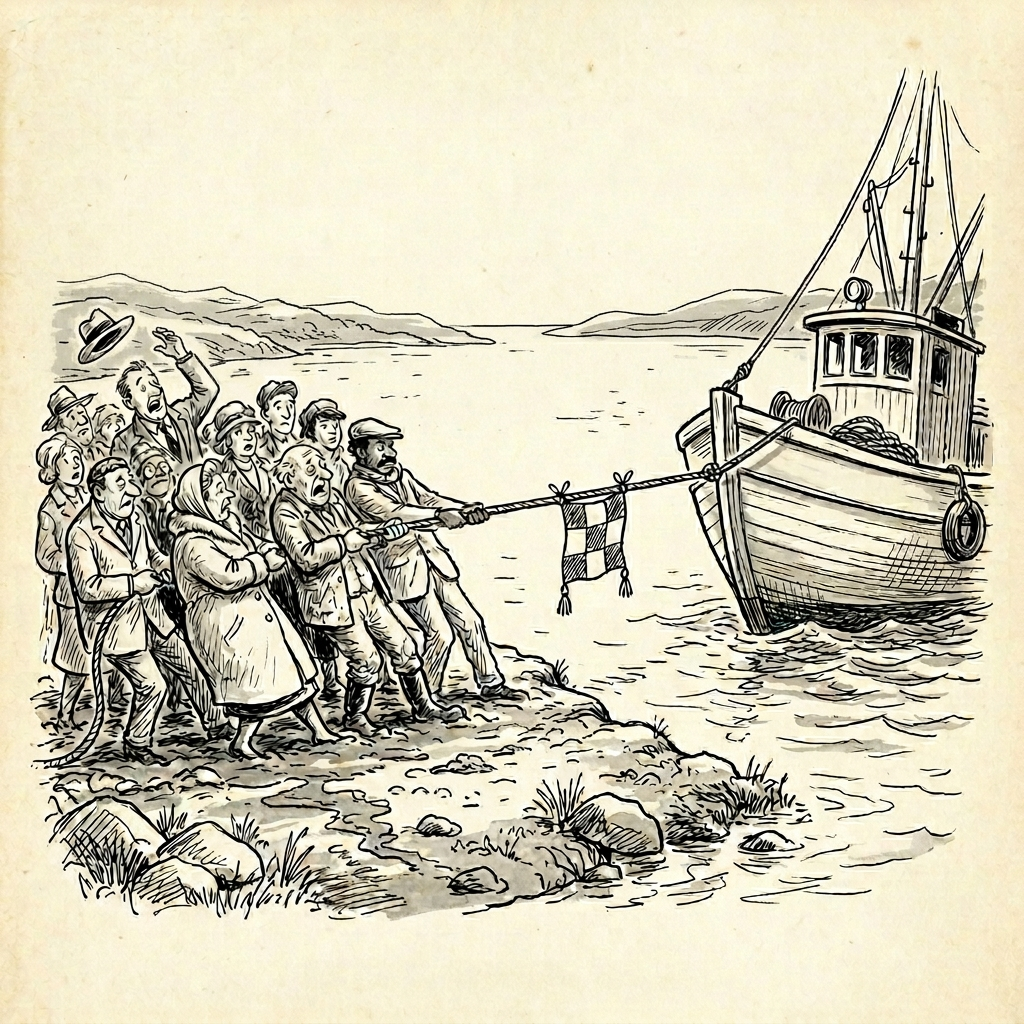
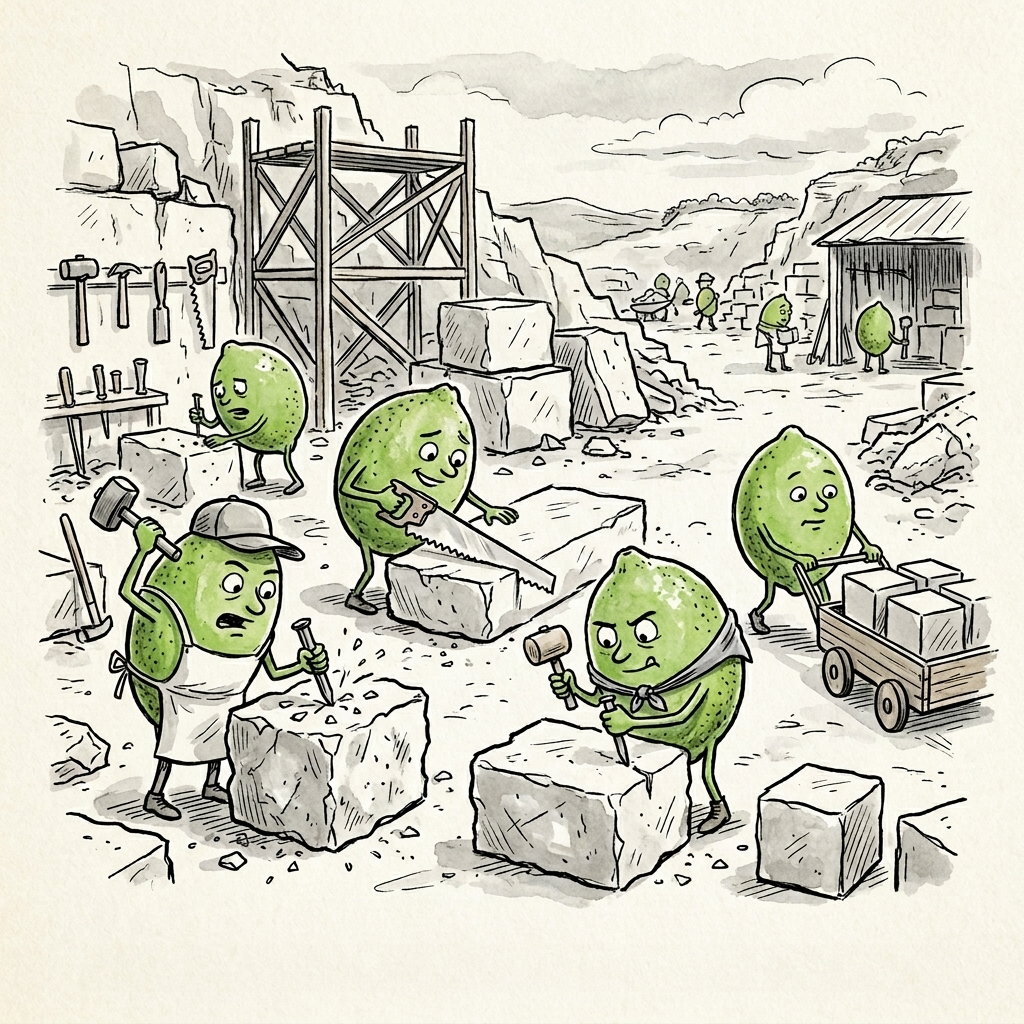
new games

diff --git a/src/data/games.ts b/src/data/games.ts
@@ -1608,7 +1608,7 @@ export const GAMES: GameData[] = [
   {
     id: 321,
     image: "/games/321.jpeg",
-    answer: "NIGHTHOOD",
+    answer: "KNIGHTHOOD",
   },
   {
     id: 322,
@@ -1653,16 +1653,46 @@ export const GAMES: GameData[] = [
   {
     id: 330,
     image: "/games/330.jpeg",
-    answer: "SLIPKNOT",
+    answer: "TAPEWORM",
   },
   {
     id: 331,
     image: "/games/331.jpeg",
-    answer: "TUGBOAT",
+    answer: "LIMESTONE",
   },
   {
     id: 332,
     image: "/games/332.jpeg",
+    answer: "DESKTOP",
+  },
+  {
+    id: 333,
+    image: "/games/333.jpeg",
+    answer: "PILLOWCASE",
+  },
+  {
+    id: 334,
+    image: "/games/334.jpeg",
+    answer: "UPSWING",
+  },
+  {
+    id: 335,
+    image: "/games/335.jpeg",
+    answer: "SEASHORE",
+  },
+  {
+    id: 340,
+    image: "/games/340.jpeg",
+    answer: "SLIPKNOT",
+  },
+  {
+    id: 341,
+    image: "/games/341.jpeg",
+    answer: "TUGBOAT",
+  },
+  {
+    id: 342,
+    image: "/games/342.jpeg",
     answer: "BOWSPRIT",
   },
 ];